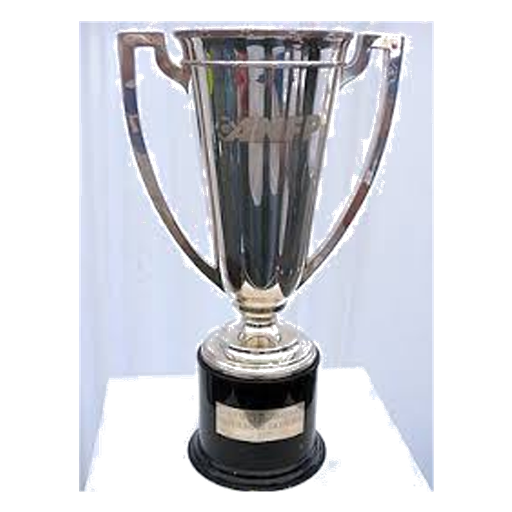
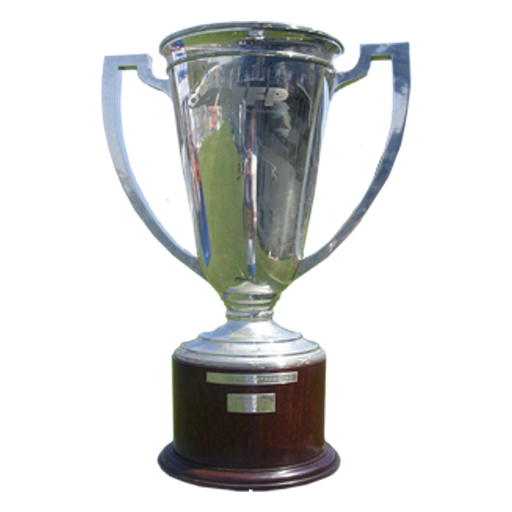
fix: trofeo liga chilena PNG y banderas vía /api/flag
Regenera liga-chile desde la foto del usuario, proxy de banderas para Eurocopa/Marruecos y assets locales.

diff --git a/src/app/api/flag/[code]/route.ts b/src/app/api/flag/[code]/route.ts
@@ -1,0 +1,66 @@
+import { readFile } from "fs/promises";
+import path from "path";
+import { NextResponse } from "next/server";
+
+export const runtime = "nodejs";
+export const revalidate = 86400;
+
+const ALLOWED = /^[a-z0-9-]+$/i;
+
+export async function GET(
+  _request: Request,
+  context: { params: Promise<{ code: string }> }
+) {
+  const { code } = await context.params;
+  if (!ALLOWED.test(code)) {
+    return new NextResponse("Invalid code", { status: 400 });
+  }
+
+  const local = path.join(process.cwd(), "public", "flags", `${code}.png`);
+  try {
+    const buf = await readFile(local);
+    if (buf.byteLength > 200) {
+      return new NextResponse(buf, {
+        headers: {
+          "Content-Type": "image/png",
+          "Cache-Control": "public, max-age=86400",
+        },
+      });
+    }
+  } catch {
+    /* remote */
+  }
+
+  const sources = [
+    `https://flagcdn.com/w160/${code}.png`,
+    `https://cdn.sofifa.net/flags/${code}.png`,
+  ];
+
+  for (const url of sources) {
+    try {
+      const res = await fetch(url, {
+        signal: AbortSignal.timeout(8000),
+        headers: {
+          "User-Agent": "Mozilla/5.0 (Windows NT 10.0; Win64; x64) Chrome/120.0.0.0",
+          Referer: url.includes("sofifa")
+            ? "https://sofifa.com/"
+            : "https://flagcdn.com/",
+        },
+        next: { revalidate: 86400 },
+      });
+      if (!res.ok) continue;
+      const buf = await res.arrayBuffer();
+      if (buf.byteLength < 200) continue;
+      return new NextResponse(buf, {
+        headers: {
+          "Content-Type": "image/png",
+          "Cache-Control": "public, max-age=86400, s-maxage=86400",
+        },
+      });
+    } catch {
+      /* try next */
+    }
+  }
+
+  return new NextResponse("Flag not found", { status: 404 });
+}

diff --git a/scripts/fix-nation-flag-urls.ts b/scripts/fix-nation-flag-urls.ts
@@ -1,0 +1,47 @@
+import { config } from "dotenv";
+config({ path: ".env" });
+config({ path: ".env.local", override: true });
+
+import { PrismaClient } from "@prisma/client";
+import { NATION_NAME_TO_FLAG } from "../src/lib/fc-data/club-ids";
+
+const prisma = new PrismaClient();
+
+async function main() {
+  for (const [clubName, code] of Object.entries(NATION_NAME_TO_FLAG)) {
+    const url = `/api/flag/${code}`;
+    const r = await prisma.trophy.updateMany({
+      where: { clubName },
+      data: { clubCrestUrl: url },
+    });
+    if (r.count) console.log(clubName, "->", url, r.count);
+  }
+
+  const legacy = await prisma.trophy.updateMany({
+    where: { clubCrestUrl: { contains: "sofifa.net/flags" } },
+    data: {},
+  });
+  // patch one-by-one for legacy URLs
+  const rows = await prisma.trophy.findMany({
+    where: { clubCrestUrl: { contains: "sofifa.net/flags" } },
+    select: { id: true, clubCrestUrl: true, clubName: true },
+  });
+  for (const row of rows) {
+    const code =
+      row.clubCrestUrl?.match(/flags\/([a-z0-9-]+)\.png/i)?.[1] ??
+      (row.clubName ? NATION_NAME_TO_FLAG[row.clubName] : null);
+    if (!code) continue;
+    await prisma.trophy.update({
+      where: { id: row.id },
+      data: { clubCrestUrl: `/api/flag/${code}` },
+    });
+  }
+  console.log("legacy fixed", rows.length);
+}
+
+main()
+  .catch((e) => {
+    console.error(e);
+    process.exit(1);
+  })
+  .finally(() => prisma.$disconnect());

diff --git a/src/lib/fc-data/club-ids.ts b/src/lib/fc-data/club-ids.ts
@@ -116,8 +116,12 @@ export const NATION_NAME_TO_FLAG: Record<string, string> = {
   Chile: "cl",
 };
 
+export function localNationFlagPath(isoCode: string): string {
+  return `/api/flag/${isoCode}`;
+}
+
 export function nationFlagUrl(isoCode: string): string {
-  return `https://cdn.sofifa.net/flags/${isoCode}.png`;
+  return localNationFlagPath(isoCode);
 }
 
 function resolveClubNumericId(
@@ -153,8 +157,22 @@ export function getTeamCrestCandidates(
   };
 
   if (clubName && NATION_NAME_TO_FLAG[clubName]) {
-    push(nationFlagUrl(NATION_NAME_TO_FLAG[clubName]));
-    if (crestUrl?.includes("/flags/")) push(crestUrl);
+    const code = NATION_NAME_TO_FLAG[clubName];
+    push(localNationFlagPath(code));
+    if (crestUrl?.startsWith("/api/flag/")) push(crestUrl);
+    if (crestUrl?.startsWith("/flags/")) {
+      const legacy = crestUrl.match(/\/flags\/([a-z0-9-]+)\.png/i)?.[1];
+      if (legacy) push(localNationFlagPath(legacy));
+    }
+    return candidates;
+  }
+
+  const flagFromCrest =
+    crestUrl?.match(/\/api\/flag\/([a-z0-9-]+)/i)?.[1] ??
+    crestUrl?.match(/\/flags\/([a-z0-9-]+)\.png/i)?.[1];
+  if (flagFromCrest) {
+    push(localNationFlagPath(flagFromCrest));
+    if (crestUrl?.startsWith("/")) push(crestUrl);
     return candidates;
   }
 

diff --git a/scripts/fix-leonel-crests.ts b/scripts/fix-leonel-crests.ts
@@ -17,9 +17,9 @@ const OVERRIDES: Record<string, number> = {
 };
 
 const NATION_FLAGS: Record<string, string> = {
-  France: "https://cdn.sofifa.net/flags/fr.png",
-  Morocco: "https://cdn.sofifa.net/flags/ma.png",
-  Argentina: "https://cdn.sofifa.net/flags/ar.png",
+  France: "/api/flag/fr",
+  Morocco: "/api/flag/ma",
+  Argentina: "/api/flag/ar",
 };
 
 const TROPHY_FIX: Array<{ titleContains: string; imageUrl: string }> = [

diff --git a/scripts/fix-trophy-assets.ts b/scripts/fix-trophy-assets.ts
@@ -8,7 +8,7 @@ const prisma = new PrismaClient();
 
 const crest = (id: number) => `/api/crest/${id}`;
 const localCrest = (path: string) => path;
-const nationFlag = (code: string) => `https://cdn.sofifa.net/flags/${code}.png`;
+const nationFlag = (code: string) => `/api/flag/${code}`;
 
 /** Escudos estables vía proxy local o assets en /public. */
 const CLUB_CREST: Record<string, string> = {

diff --git a/src/middleware.ts b/src/middleware.ts
@@ -7,6 +7,6 @@ export async function middleware(request: NextRequest) {
 
 export const config = {
   matcher: [
-    "/((?!_next/static|_next/image|favicon.ico|api/crest|.*\\.(?:svg|png|jpg|jpeg|gif|webp)$).*)",
+    "/((?!_next/static|_next/image|favicon.ico|api/crest|api/flag|.*\\.(?:svg|png|jpg|jpeg|gif|webp)$).*)",
   ],
 };

diff --git a/src/lib/supabase/middleware.ts b/src/lib/supabase/middleware.ts
@@ -41,6 +41,7 @@ export async function updateSession(request: NextRequest) {
     pathname === "/" ||
     pathname.startsWith("/dev/") ||
     pathname.startsWith("/api/crest/") ||
+    pathname.startsWith("/api/flag/") ||
     isAuthRoute ||
     isOAuthRoute ||
     isPasswordResetRoute;
